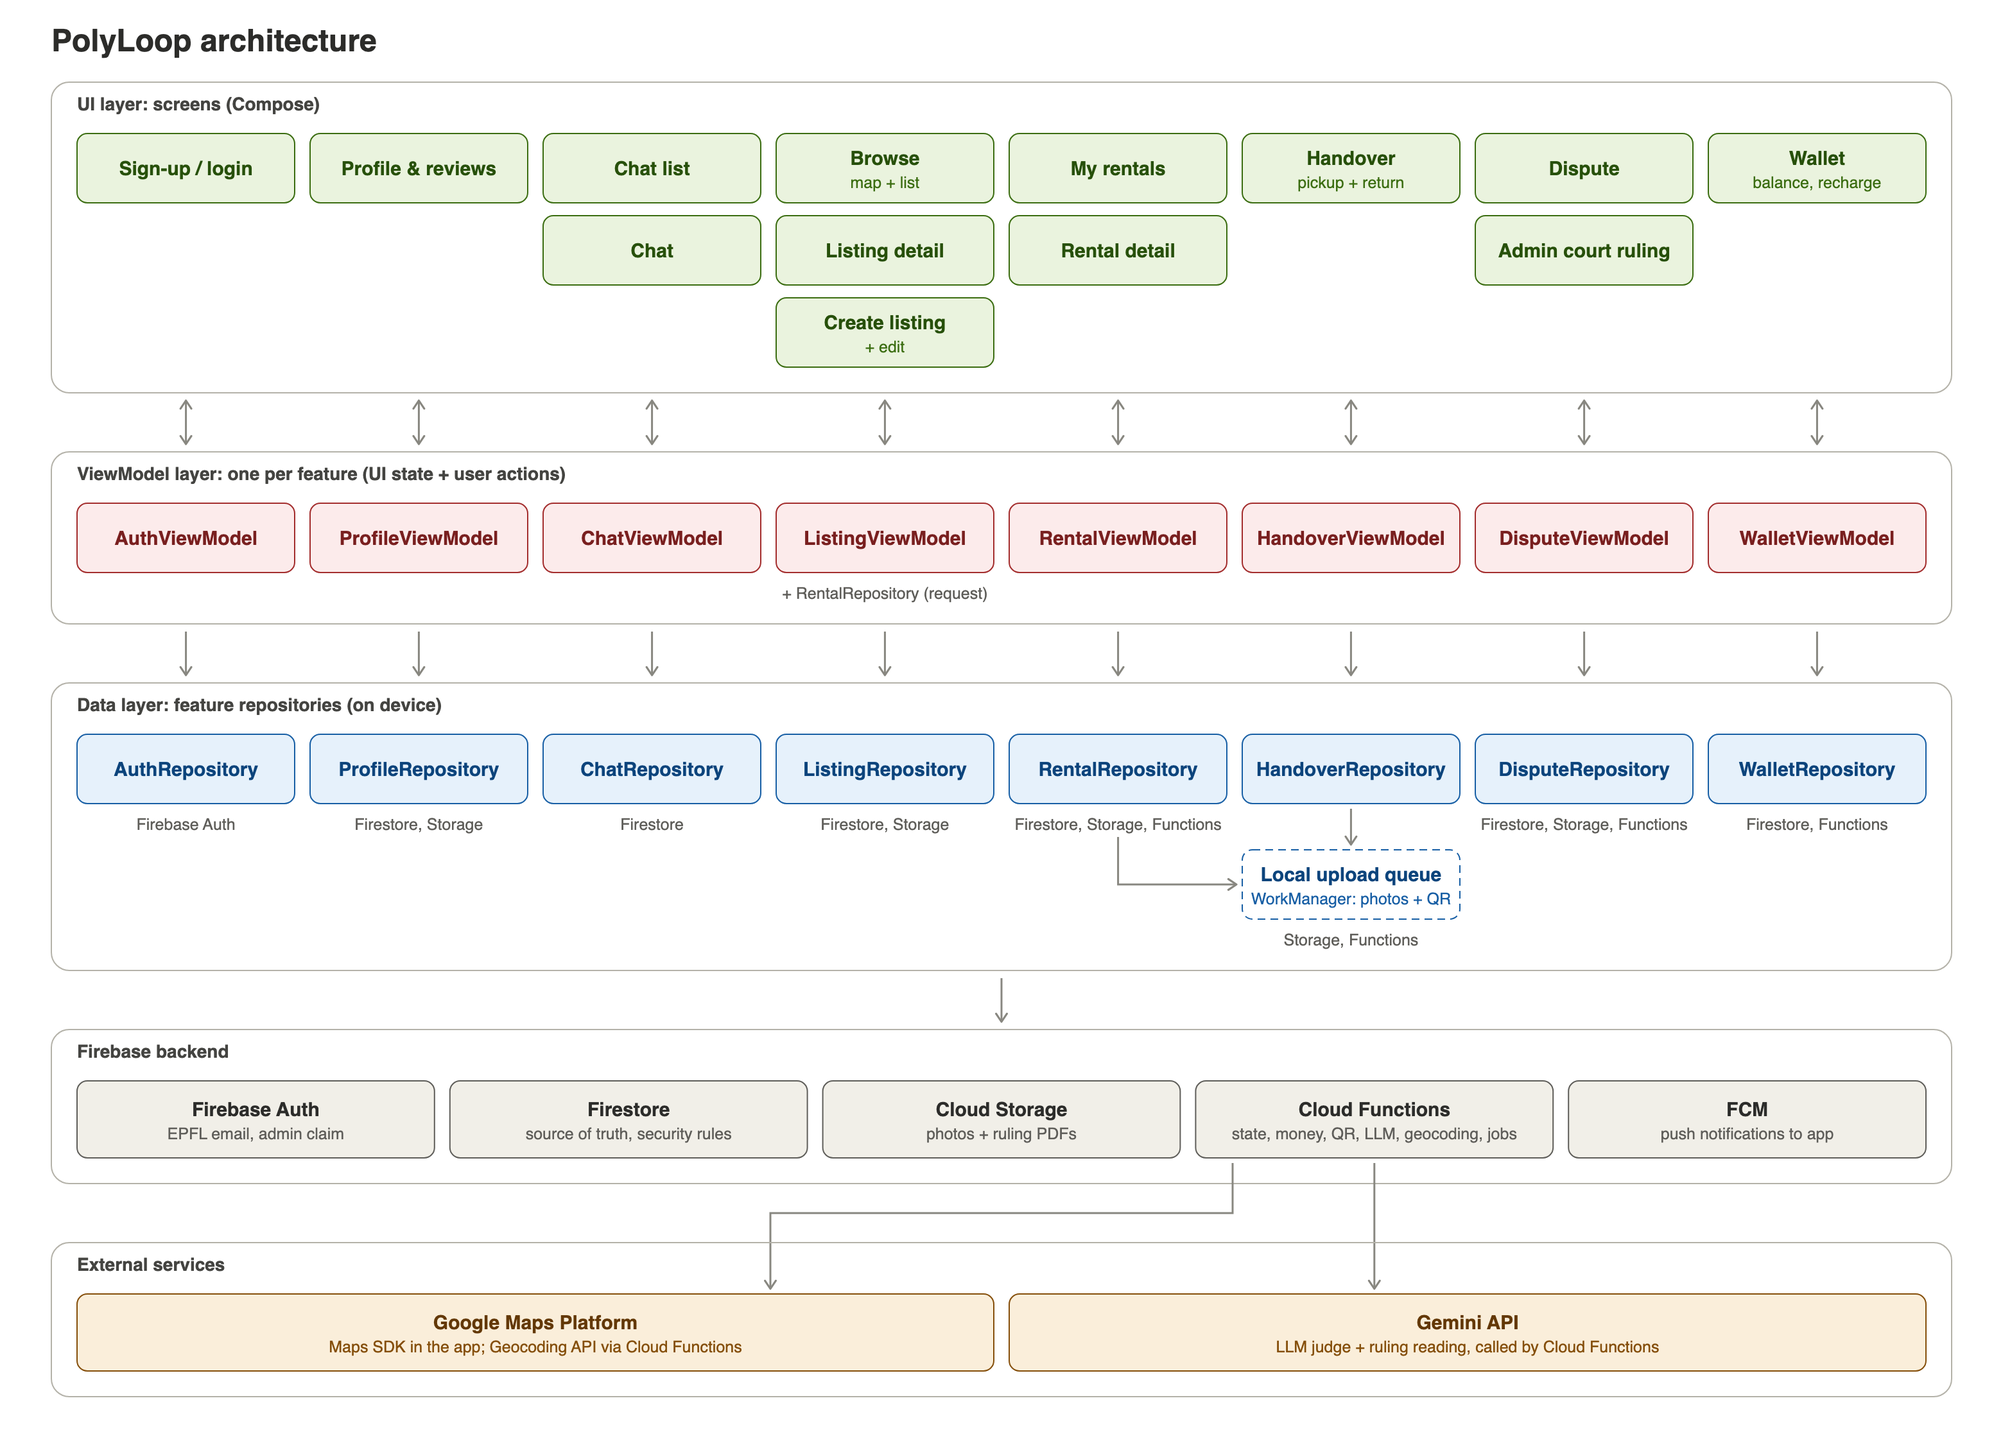
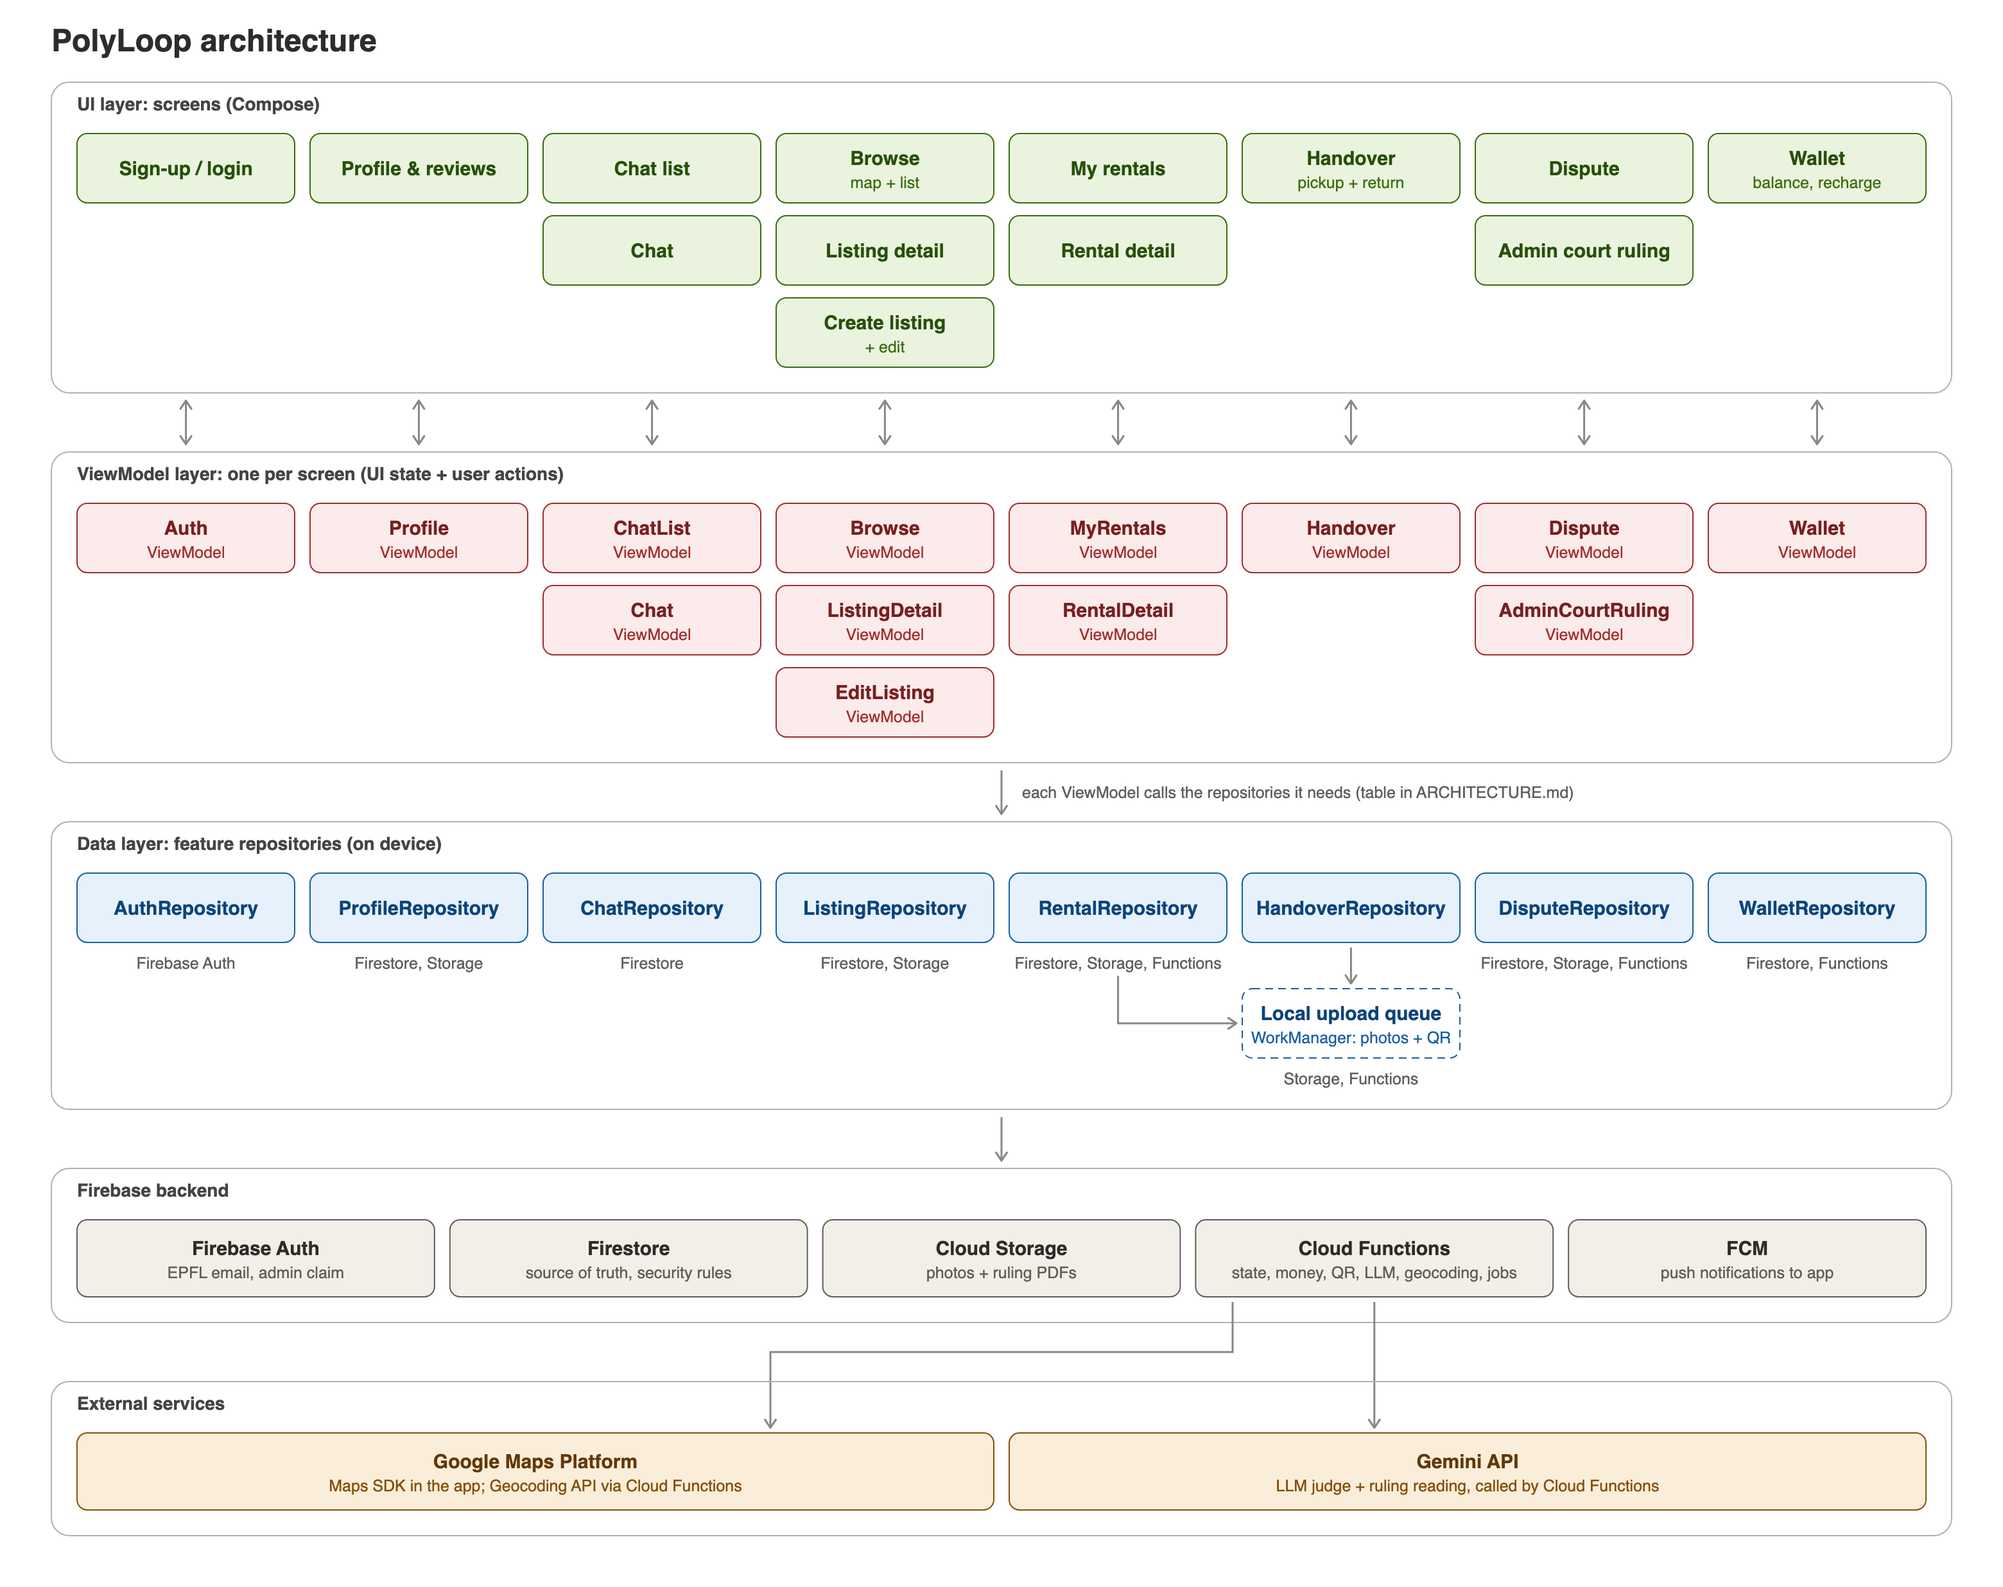
docs: use one ViewModel per screen
Each of the 13 screens gets its own ViewModel instead of one per
feature, following Android's guidance that a ViewModel is a
screen-level state holder. Repositories stay one per feature (type of
data) and a ViewModel calls whichever ones it needs; ARCHITECTURE.md
lists them per ViewModel. No use-case layer for now.

Updates AGENTS.md, ARCHITECTURE.md, SCREENS.md and the diagram.

diff --git a/docs/SCREENS.md b/docs/SCREENS.md
@@ -1,10 +1,11 @@
+<!-- Edited with Claude. -->
 # PolyLoop screen specification
 
 One section per screen: what it shows and what it lets the user do. Mock-ups: https://claude.ai/artifact/FH2RZaMrYTGYU2fNz6UpZc
 
 ## Conventions
 
-PolyLoop has 13 screens, each backed by a feature ViewModel. Each section below lists what a screen shows and what it lets the user do.
+PolyLoop has 13 screens, each backed by its own ViewModel, which uses the repositories it needs (see the table in ARCHITECTURE.md). Each section below lists what a screen shows and what it lets the user do.
 
 Elements shared across screens:
 
@@ -17,7 +18,7 @@ Elements shared across screens:
 
 ## Sign-up / login
 
-Only users with a verified EPFL email get past this screen. ViewModel: AuthViewModel.
+Only users with a verified EPFL email get past this screen. ViewModel: AuthViewModel, using AuthRepository and ProfileRepository.
 
 - Email and password fields, with a switch between “Sign up” and “Log in”.
 - Only @epfl.ch addresses are accepted. A regex check shows an inline error as soon as the address doesn't match.
@@ -27,7 +28,7 @@ Only users with a verified EPFL email get past this screen. ViewModel: AuthViewM
 
 ## Profile & reviews
 
-The profile shows who someone is and how past rentals went. It opens from the profile button in the top bar or by tapping a person on Listing detail or Rental detail. ViewModel: ProfileViewModel.
+The profile shows who someone is and how past rentals went. It opens from the profile button in the top bar or by tapping a person on Listing detail or Rental detail. ViewModel: ProfileViewModel, using ProfileRepository, ListingRepository and AuthRepository.
 
 - Name, photo, and the average rating (1 to 5 stars) with the number of reviews.
 - The list of reviews, each with stars, author, date and the item rented.
@@ -37,7 +38,7 @@ The profile shows who someone is and how past rentals went. It opens from the pr
 
 ## Wallet
 
-The Wallet screen holds the user's in-app balance, which pays for rentals and deposits. ViewModel: WalletViewModel. The balance is only ever changed by Cloud Functions; the app sends a request and shows the result.
+The Wallet screen holds the user's in-app balance, which pays for rentals and deposits. ViewModel: WalletViewModel, using WalletRepository. The balance is only ever changed by Cloud Functions; the app sends a request and shows the result.
 
 - The available balance in PolyPoints, plus the amount currently held as deposits.
 - A “Recharge” button: the user enters any Swiss franc amount and receives the same number of PolyPoints. Recharging is simulated; no real payment is made.
@@ -47,7 +48,7 @@ The Wallet screen holds the user's in-app balance, which pays for rentals and de
 
 ## Chat list & chat
 
-Each rental has exactly one 1:1 conversation between its lender and borrower. ViewModel: ChatViewModel.
+Each rental has exactly one 1:1 conversation between its lender and borrower. ViewModels: ChatListViewModel, using ChatRepository, ProfileRepository and ListingRepository; ChatViewModel, using ChatRepository, RentalRepository, ProfileRepository and ListingRepository.
 
 - **Chat list.** A separate screen lists all the user's conversations, one per rental, with the other person, the item and the last message.
 - The chat opens as soon as a request is sent, so both sides can agree on details before acceptance, such as the meeting point and the deposit.
@@ -60,7 +61,7 @@ Each rental has exactly one 1:1 conversation between its lender and borrower. Vi
 
 ## Browse
 
-Browse shows available items near the user, as a map or a list. ViewModel: ListingViewModel.
+Browse shows available items near the user, as a map or a list. ViewModel: BrowseViewModel, using ListingRepository.
 
 - A toggle between map view (Google Maps SDK) and list view.
 - Map pins sit at each listing's pickup area, never the exact address.
@@ -73,7 +74,7 @@ Browse shows available items near the user, as a map or a list. ViewModel: Listi
 
 ## Listing detail
 
-Listing detail is where a borrower decides and sends a request. ViewModel: ListingViewModel, which also calls RentalRepository to create the request.
+Listing detail is where a borrower decides and sends a request. ViewModel: ListingDetailViewModel, using ListingRepository, RentalRepository (to send the request) and ProfileRepository.
 
 - Photo carousel, title, description, price per day, and the suggested deposit (the item's value), all in PolyPoints. The final deposit is negotiated in chat; the lender enters it when accepting.
 - The owner's name and rating, linking to their profile.
@@ -84,7 +85,7 @@ Listing detail is where a borrower decides and sends a request. ViewModel: Listi
 
 ## Create / edit listing
 
-This form puts an item up for rent, or changes an existing listing. ViewModel: ListingViewModel.
+This form puts an item up for rent, or changes an existing listing. ViewModel: EditListingViewModel, using ListingRepository and RentalRepository.
 
 - A photo row with an “Add photo” button that opens the in-app camera. Each listing needs 3 to 10 photos, which can be removed and reordered.
 - Fields: title, description, category, price per day, item value (the suggested deposit), the availability window (the dates the lender is willing to lend), and the pickup and drop-off addresses, typed as text.
@@ -94,7 +95,7 @@ This form puts an item up for rent, or changes an existing listing. ViewModel: L
 
 ## My rentals
 
-My rentals is the user's overview of everything they borrow and lend, and it works fully offline. ViewModel: RentalViewModel.
+My rentals is the user's overview of everything they borrow and lend, and it works fully offline. ViewModel: MyRentalsViewModel, using RentalRepository, ListingRepository and ProfileRepository.
 
 - Two tabs: “Borrowing” and “Lending”.
 - Each row shows the item, the other person, a status label, the return deadline, and the meeting point as text.
@@ -104,7 +105,7 @@ My rentals is the user's overview of everything they borrow and lend, and it wor
 
 ## Rental detail
 
-Rental detail is the hub for one rental: what it is, where it stands, and the next action. ViewModel: RentalViewModel.
+Rental detail is the hub for one rental: what it is, where it stands, and the next action. ViewModel: RentalDetailViewModel, using RentalRepository, ListingRepository and ProfileRepository.
 
 - Item, dates, return deadline, the other person (linking to their profile), and a status label.
 - The deposit, entered by the lender when accepting, and its state: held, released, or frozen.
@@ -122,7 +123,7 @@ Rental detail is the hub for one rental: what it is, where it stands, and the ne
 
 ## Handover
 
-One Handover screen covers both pickup and return, and adapts to the phase and to the user's role. ViewModel: HandoverViewModel. Mock-ups: [PolyLoop Handover screen](https://claude.ai/artifact/FH2RZaMrYTGYU2fNz6UpZc).
+One Handover screen covers both pickup and return, and adapts to the phase and to the user's role. ViewModel: HandoverViewModel, using HandoverRepository, RentalRepository and DisputeRepository. Mock-ups: [PolyLoop Handover screen](https://claude.ai/artifact/FH2RZaMrYTGYU2fNz6UpZc).
 
 - A progress strip: Pickup → In use → Return.
 - **Condition photos.** In-app camera, each photo labelled with its phase and time. Photos taken offline show a “Not synced” badge. Each handover needs at least 3 and at most 20 photos. Photos can also be taken mid-rental from Rental detail.
@@ -138,7 +139,7 @@ One Handover screen covers both pickup and return, and adapts to the phase and t
 
 ## Dispute
 
-The Dispute screen walks both parties through the three settlement stages until the deposit is split. ViewModel: DisputeViewModel.
+The Dispute screen walks both parties through the three settlement stages until the deposit is split. ViewModel: DisputeViewModel, using DisputeRepository, HandoverRepository, RentalRepository and ListingRepository.
 
 - A header with the item, the deposit amount, and the current stage.
 - Pickup and return photos side by side, as evidence.
@@ -149,7 +150,7 @@ The Dispute screen walks both parties through the three settlement stages until 
 
 ## Admin court ruling
 
-This admin-only screen checks uploaded court rulings before they move any money. ViewModel: DisputeViewModel. Admins are identified by a custom claim on their Firebase account.
+This admin-only screen checks uploaded court rulings before they move any money. ViewModel: AdminCourtRulingViewModel, using DisputeRepository, HandoverRepository, RentalRepository, ListingRepository and ProfileRepository. Admins are identified by a custom claim on their Firebase account.
 
 - A queue of uploaded rulings waiting for review, each with the item, both parties, the deposit, and the upload date.
 - A detail view with the ruling PDF, the photos, the proposal history, and the LLM's earlier proposal.

diff --git a/docs/ARCHITECTURE.md b/docs/ARCHITECTURE.md
@@ -1,3 +1,4 @@
+<!-- Edited with Claude. -->
 # PolyLoop architecture
 
 ## Layers
@@ -5,26 +6,50 @@
 ```
 UI layer        Compose screens (13 screens, see SCREENS.md)
                   │  observe state / send user actions
-ViewModel layer 8 feature ViewModels (one per feature)
-                  │  call directly (no domain layer)
+ViewModel layer 13 screen ViewModels (one per screen)
+                  │  call the repositories they need (no domain layer)
 Data layer      8 feature repositories + local upload queue (WorkManager)
                   │
 Firebase        Auth · Firestore · Cloud Storage · Cloud Functions · FCM
 External        Google Maps Platform (Maps SDK in app, Geocoding API from Functions) · Gemini API (from Functions)
 ```
 
-## Feature slices
+## Repositories: one per feature
 
-| Feature | Screens | ViewModel | Repository talks to |
-| --- | --- | --- | --- |
-| Auth | Sign-up / login | AuthViewModel | Firebase Auth |
-| Profile | Profile & reviews | ProfileViewModel | Firestore, Cloud Storage |
-| Chat | Chat list, Chat | ChatViewModel | Firestore |
-| Listing | Browse, Listing detail, Create / edit listing | ListingViewModel (also calls RentalRepository to send a request) | Firestore, Cloud Storage |
-| Rental | My rentals, Rental detail | RentalViewModel | Firestore, Cloud Functions, Local upload queue → Cloud Storage (mid-rental photos) |
-| Handover | Handover (pickup + return) | HandoverViewModel | Local upload queue → Cloud Storage, Cloud Functions |
-| Dispute | Dispute, Admin court ruling | DisputeViewModel | Firestore, Cloud Storage, Cloud Functions |
-| Wallet | Wallet | WalletViewModel | Firestore, Cloud Functions |
+One repository per type of data, shared by every ViewModel that needs it.
+
+| Feature | Repository | Talks to |
+| --- | --- | --- |
+| Auth | AuthRepository | Firebase Auth |
+| Profile | ProfileRepository | Firestore, Cloud Storage |
+| Chat | ChatRepository | Firestore |
+| Listing | ListingRepository | Firestore, Cloud Storage |
+| Rental | RentalRepository | Firestore, Cloud Functions, Local upload queue → Cloud Storage (mid-rental photos) |
+| Handover | HandoverRepository | Local upload queue → Cloud Storage, Cloud Functions |
+| Dispute | DisputeRepository | Firestore, Cloud Storage, Cloud Functions |
+| Wallet | WalletRepository | Firestore, Cloud Functions |
+
+## ViewModels: one per screen
+
+Each screen has its own ViewModel, which holds that screen's state and calls the repositories it needs through their interfaces. ViewModels never call each other, and there is no use-case layer for now. Every ViewModel may read the signed-in user from AuthRepository; that is not repeated below.
+
+| Screen | ViewModel | Repositories it uses |
+| --- | --- | --- |
+| Sign-up / login | AuthViewModel | Auth; Profile (creates the profile on the first verified sign-in) |
+| Profile & reviews | ProfileViewModel | Profile; Listing ("My listings"); Auth ("Sign out") |
+| Wallet | WalletViewModel | Wallet |
+| Chat list | ChatListViewModel | Chat; Profile (the other person); Listing (the item) |
+| Chat | ChatViewModel | Chat; Rental (link to Rental detail, sending disabled during a dispute); Profile (the other person); Listing (the item) |
+| Browse | BrowseViewModel | Listing |
+| Listing detail | ListingDetailViewModel | Listing; Rental (booked days, sending the request); Profile (the owner's name and rating) |
+| Create / edit listing | EditListingViewModel | Listing; Rental (editing locked while a rental is accepted or active) |
+| My rentals | MyRentalsViewModel | Rental; Listing (the item); Profile (the other person) |
+| Rental detail | RentalDetailViewModel | Rental (status, actions, deposit, meeting point, mid-rental photos); Listing (the item); Profile (the other person, the review prompt) |
+| Handover | HandoverViewModel | Handover; Rental (phase, role, deposit held); Dispute ("Flag damage") |
+| Dispute | DisputeViewModel | Dispute; Handover (pickup and return photos); Rental (the deposit); Listing (the item) |
+| Admin court ruling | AdminCourtRulingViewModel | Dispute; Handover (the photos); Rental (the deposit); Listing (the item); Profile (both parties) |
+
+If a ViewModel needs a repository that is not listed here, add it to this table in the same pull request.
 
 ## Core rule: the app expresses intent, Cloud Functions decide
 
@@ -85,7 +110,7 @@ Packages: `model/` (data and repositories), `ui/` (screens and their ViewModels)
 
 | Area | Choice |
 | --- | --- |
-| Architecture | MVVM without a domain layer: 8 feature ViewModels, each calling its own repository |
+| Architecture | MVVM without a domain layer: 13 screen ViewModels, each calling the feature repositories it needs |
 | Server logic | Cloud Functions are the only writers of rental status, deposits and balances |
 | Offline cache | Firestore's built-in offline persistence |
 | Upload queue | WorkManager, for offline photos and QR scans |

diff --git a/AGENTS.md b/AGENTS.md
@@ -1,3 +1,4 @@
+<!-- Edited with Claude. -->
 # AGENTS.md
 
 Durable rules for any AI agent (and human) working in this repository. Read this before acting.
@@ -17,8 +18,8 @@ Diagram: `docs/architecture/polyloop_architecture.png` (the SVG next to it is th
 ## Rules for agents
 
 1. **Do not make design or technical decisions on your own.** If something you need is not in `docs/`, or the docs are ambiguous, stop and ask. The "Not decided yet" list in ARCHITECTURE.md names known gaps.
-2. **Respect the layers.** Screens (Compose) only talk to their feature ViewModel. ViewModels call repositories directly; there is no domain/use-case layer.
-3. **Stay inside the feature slice.** There are 8 features, each with one ViewModel and one repository (Auth, Profile, Listing, Rental, Chat, Handover, Dispute, Wallet). Do not create new ViewModels or repositories without asking.
+2. **Respect the layers.** Each screen (Compose) only talks to its own ViewModel. ViewModels call the repositories they need directly; they never call each other, and there is no domain/use-case layer.
+3. **One ViewModel per screen, one repository per feature.** There are 13 screens, each with its own ViewModel, and 8 repositories, one per type of data (Auth, Profile, Listing, Rental, Chat, Handover, Dispute, Wallet). `docs/ARCHITECTURE.md` lists the repositories each ViewModel uses; keep that list up to date. Do not create new ViewModels or repositories without asking.
 4. **If the architecture changes**, update `docs/ARCHITECTURE.md`, `docs/SCREENS.md`, the diagram and, if a rule changes, this file in the same pull request as the code.
 
 ## Rules that must never be broken
